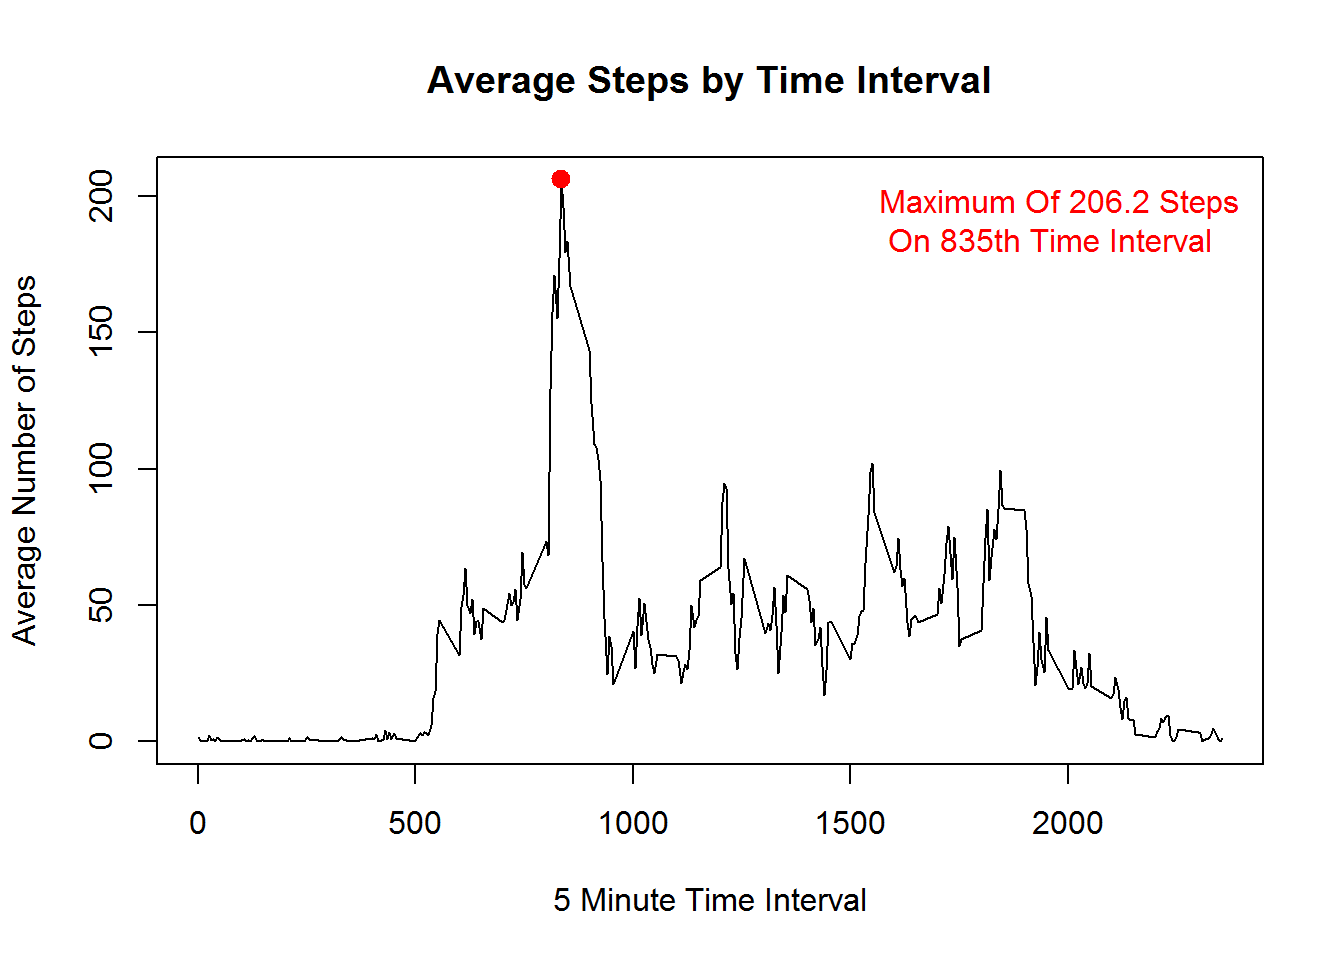
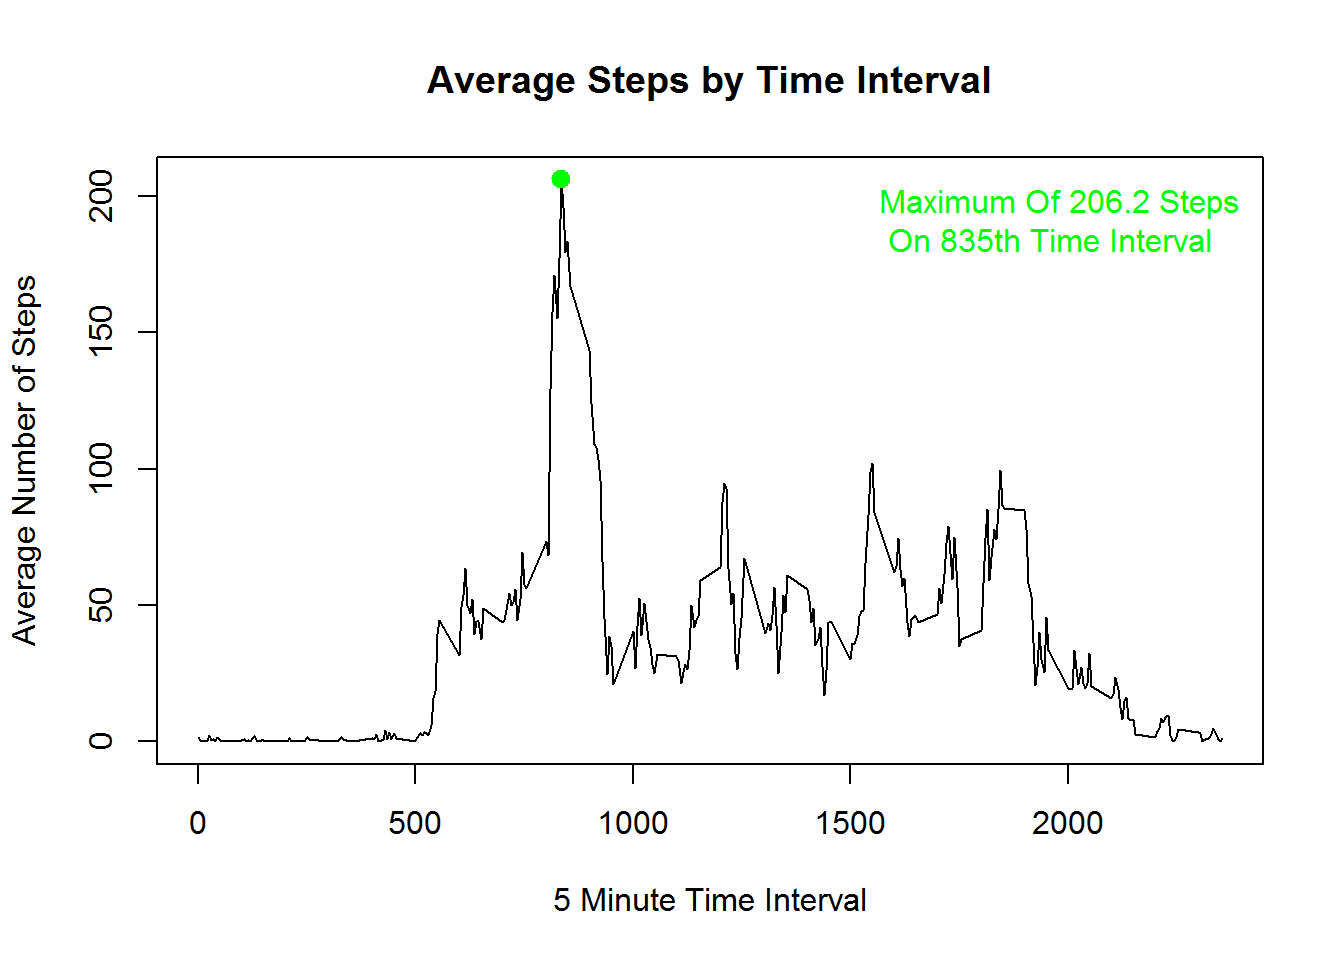
Final submission

Changed region(s): [[0.6562, 0.1875, 0.9375, 0.2812], [0.4062, 0.1562, 0.4375, 0.1875]]

diff --git a/PA1_template.html b/PA1_template.html
@@ -134,7 +134,7 @@ gen_hist(Mydata_tbl_summary$total_steps, 'Number of Steps Taken Per Day')</code>
 <li><p>Make a time series plot (i.e. type = “l”) of the 5-minute interval (x-axis) and the average number of steps taken, averaged across all days (y-axis)</p></li>
 <li><p>To find out Which 5-minute interval, on average across all the days in the dataset, contains the maximum number of steps?</p></li>
 </ol>
-<p>Note: Maximum number of steps is reported In Legend Of Time Series Plot</p>
+<p>Note: Maximum number of steps also reported In Legend Of Time Series Plot</p>
 <pre class="r"><code>#summarize dataset by interval
 Mydata_tbl_summary_intv = Mydata_tbl[, list(avg_steps = mean(steps, 
                                      na.rm = T)), by = interval]
@@ -157,15 +157,15 @@ max_steps</code></pre>
 max_lab = paste('Maximum Of ', round(max_steps$avg_steps, 1), ' Steps \n On ', max_steps$interval, 'th Time Interval', sep = '')
 
 #Collect Cooridinates of The Max Interval For Graphing
-points(max_steps$interval,  max_steps$avg_steps, col = 'red', lwd = 3, pch = 19)
+points(max_steps$interval,  max_steps$avg_steps, col = 'green', lwd = 3, pch = 19)
 
 #Add Label To Annotate Maximum # Steps And Interval
 legend(&quot;topright&quot;,
        legend = max_lab,
-       text.col = 'red',
+       text.col = 'green',
        bty = 'n'
        )</code></pre>
[2 lines of base64/hex data omitted]
 <pre class="r"><code>sum(is.na(Mydata$steps))</code></pre>
 <pre><code>## [1] 2304</code></pre>
 <ol start="2" style="list-style-type: decimal">
